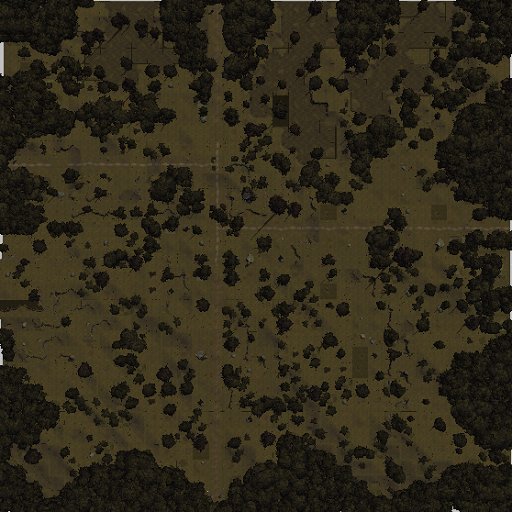
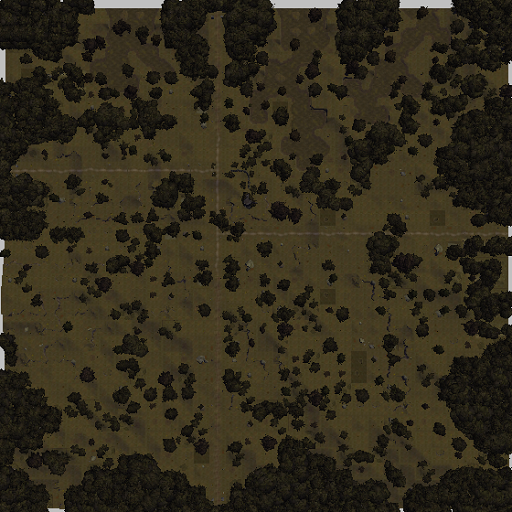
v220314

diff --git a/common.js b/common.js
@@ -14,23 +14,23 @@ var map = {
     csize_noscr: 100,
     layers: [[
         //1              2                3                4                5                6                  7                 8                  9                  10                 11                 12                 13                 14                 15                 16                 17                 18                 19                 20                21                22                     23                 24                 25                 26              27                  28              29              30
-        '0map',          '0map',          '0map',          '0map',          '0map',          '0map',            '0map',           '0map',            '0map',            '0map',            '0map',            '0map',            '0map',            '0map',            '0map',            '0map',            '0map',            '0map',            '0map',            '0map',           '0map',           '0map',                '0map',            '0map',            '0map',            '0map',         '0map',             '0map',         '0map',         '0map',       
-        '0map',          '0map',          '0map',          '0map',          '0map',          '0map',            '0map',           '0map',            '0map',            '0map',            '0map',            '0map',            '0map',            '0map',            '0map',            '0map',            '0map',            '0map',            '0map',            '0map',           '0map',           '0map',                't_varyth_torf_w', 't_varyth_tor',    't_varyth_torf_e', '0map',         '0map',             '0map',         '0map',         '0map',       
-        't_zazesspur_nw','t_zazesspur_ne','0map',          '0map',          '0map',          '0map',            '0map',           '0map',            '0map',            '0map',            '0map',            '0map',            '0map',            '0map',            '0map',            '0map',            '0map',            '0map',            't_lhestyn_quay',  't_masamont_road','t_masamount',    't_masamount_wudn',    't_varyth_torf_sw','t_varyth_torf_s', 't_varyth_torf_se','0map',         '0map',             '0map',         '0map',         '0map',       
-        't_zazesspur_sw','t_zazesspur_se','t_venezir_ne'  ,'SulZaz2',       '0map',          '0map',            't_tethyrcast_nw','t_tethyrcast_n',  't_tethyrcast_ne', 'SuldusBard1',     '0map',            'IthmonSulW',      't_hostim_quay',   't_ithmn_sul_e',   't_ithmn_sul_e1',  't_ithmn_sul_e2',  't_grannox',       't_grannox_farms', 't_lhestynheart',  't_freelm_farms', 't_freelmanse',   't_masamount_wuds',    't_varyth_plain_w','t_varyth_plain_c','t_varyth_plain_e','0IthalRoadWE', '0IthalRoadWES',    '0IthalRoadWE', '0IthalRoadWS', '0map',       
-        't_venezir_sw',  't_venezir_s',   't_venezir_se'  ,'SulZaz3',       'SulZaz4',       'SulZaz5',         't_tethyrcast_w', 't_tethyrcast',    't_tethyrcast_e',  't_alemwood_nw',   't_alemwood_ne',   't_hostim_hill_nw','t_hostim',        't_hostim_wood',   't_ithmon_crag_nw','t_ithmon_crag_ne','t_lhest_gorge',   't_lhest_farm_sw', 't_lhest_farm_s',  't_lhest_farm_se','t_rivshrehill_n','t_rivshrehill_ne',    't_varyth_hill_nw','t_varyth_hill_n', 't_varyth_hill_ne','0map',         't_iltarghal',      '0map',         't_survale',    '0map',       
-        '0map',          '0map',          't_vintor_okr_1','t_vintor_okr_2','t_vintor_okr_3','t_bardshyr_okr',  't_tethyrcast_sw','t_tethyrcast_s',  't_tethyrcast_se', 't_alemwood_sw',   't_bardshyr_alem', 't_hostim_hill_w', 't_hostim_road',   't_hostim_hill_e', 't_ithmon_crag_sw','t_ithmon_crag_se','t_qonsir',        't_qonsir_farm',   't_lhest_road',    't_rivshrehill_w','t_rivshrehill_c','t_st_ostus',          't_varyth_hill_sw','t_varyth_hill_s', 't_varyth_hill_se','0map',         '0map',             '0map',         '0IthalRoadNS', '0map',       
-        '0map',          '0map',          '0map',          '0map',          '0map',          't_sahark_crossrd','t_saharkhan',    't_bardshy_itr_1', 't_bardshy_itr_2', 't_bardshy_itr_3', 't_bardshy_itr_4', 't_ithmon_ithr_w1','t_ithmon_ithr_w2','t_ithmon_lorcros','t_ithmon_ithr_e1','t_ithmon_ithr_e2','t_rvrshr_ithrdw', 't_crownfarms_nw', 't_crownfarms_n',  't_crownfarms_ne','t_rivshrehill_s','t_rivshrehill_se',    '0map',            '0map',            't_thrynnar_hold', '0IthalRoadWE', '0IthalRoadWE',     '0IthalRoadWE', '0IthalRoadNWS','0map',       
-        '0map',          '0map',          '0map',          '0map',          '0map',          't_soldieroad_1',  '0map',           '0IthalRoadNS',    '0map',            't_brinniqdell_n', '0IthalRoadNS',    't_ithmon_pipe_n', 't_ithmon_farm_nw','t_ithmon_farm_n', 't_ithmon_farm_ne','t_loransewood_n', 't_crownfarms_iw2','t_crownfarms_iw1','t_darromar',      't_foyen_rd',     't_foyen',        '0map',                '0map',            '0map',            '0IthalRoadNS',    '0map',         '0map',             '0map',         '0IthalRoadEN', 't_veaddakar',       
-        '0map',          '0map',          '0map',          't_dasaajk',     '0map',          't_soldieroad_2',  '0map',           '0IthalRoadNS',    '0map',            't_brinniqdell_s', '0IthalRoadWN',    't_ithmon_pipe_s', 't_ithmon_farm_w', 't_ithmon_loranse','t_ithmon_farm_e', 't_loransewood_s', '0map',            't_clov_fld_nw',   't_clov_fld_itr_n','0map',           '0map',           '0map',                '0IthalRoadES',    '0IthalRoadWE',    '0IthalRoadWN',    '0map',         '0map',             '0map',         '0map',         '0map',       
-        '0map',          't_vineshade',   '0map',          '0map',          '0map',          't_krennasar',     '0IthalRoadWE',   '0IthalRoadNWE',   't_jongrath',      '0IthalRoadWN',    '0map',            't_loranse_swamp', '0map',            '0map',            '0map',            '0map',            't_ruba',          '0IthalRoadWE',    't_clov_fld_itr_s','0IthalRoadWES',  '0IthalRoadWE',   '0IthalRoadWE',        '0IthalRoadNWS',   '0map',            '0map',            '0map',         '0map',             '0map',         '0map',         '0map',       
-        '0map',          '0map',          '0map',          '0map',          '0IthalRoadES',  '0IthalRoadWN',    '0map',           '0map',            '0map',            '0map',            '0map',            '0map',            '0map',            '0map',            '0map',            '0map',            '0IthalRoadNS',    '0map',            '0map',            't_abbor',        '0map',           '0map',                '0IthalRoadNES',   '0IthalRoadWE',    '0IthalRoadWE',    '0IthalRoadWE', '0IthalRoadWS',     '0map',         '0map',         '0map',       
-        '0map',          '0map',          '0map',          't_refields_n',  't_refields_ne', '0map',            '0map',           '0map',            '0map',            '0map',            '0map',            '0map',            '0map',            '0map',            't_pelmarin',      '0IthalRoadWE',    '0IthalRoadWN',    '0map',            '0map',            '0map',           '0map',           '0map',                't_mistletoe',     '0map',            '0map',            '0map',         '0IthalRoadNES',    '0IthalRoadWE', '0IthalRoadWES','t_barakmordin',       
-        '0map',          '0map',          't_myratma_w',   't_myratma_e',   't_refields_e',  '0IthalRoadWE',    '0IthalRoadWE',   't_maratimmir',    '0IthalRoadWE',    '0IthalRoadWE',    '0IthalRoadWE',    '0IthalRoadWES',   '0IthalRoadWE',    '0IthalRoadWE',    '0IthalRoadWN',    '0map',            '0map',            '0map',            '0map',            '0map',           '0map',           '0map',                '0map',            '0map',            '0map',            '0map',         '0IthalRoadNS',     '0map',         '0IthalRoadNS', '0map',       
-        '0map',          '0map',          '0map',          '0map',          '0map',          '0map',            '0map',           '0map',            '0map',            '0map',            '0map',            't_fort_teqlar',   't_shoonach_ilt',  't_shoonach_run',  '0map',            '0map',            '0map',            '0map',            '0map',            '0map',           '0map',           '0map',                '0map',            '0map',            '0map',            't_magis_tor',  '0IthalRoadWN',     '0map',         '0IthalRoadNS', '0map',       
-        '0map',          '0map',          '0map',          '0map',          '0map',          '0map',            '0map',           '0map',            '0map',            '0map',            't_shoonach_gaw',  '0map',            '0map',            '0map',            't_shoonach_deb',  '0map',            '0map',            '0map',            '0map',            '0map',           '0map',           '0map',                '0map',            '0map',            '0map',            '0map',         '0map',             '0map',         't_adarthir',   '0map',
-        '0map',          '0map',          '0map',          '0map',          '0map',          '0map',            '0map',           '0map',            '0map',            '0map',            '0map',            't_shoonach_mum',  't_shoonach_imp',  '0map',            't_shoonach_gae',  '0map',            '0map',            '0map',            '0map',            '0map',           '0map',           '0map',                '0map',            '0map',            '0map',            '0map',         '0map',             '0map',         '0map',         '0map',
-        '0map',          '0map',          '0map',          '0map',          '0map',          '0map',            '0map',           '0map',            '0map',            '0map',            '0map',            '0map',            't_shoonach_agi',  '0map',            '0map',            '0map',            '0map',            '0map',            '0map',            '0map',           '0map',           '0map',                '0map',            '0map',            '0map',            '0map',         '0map',             '0map',         '0map',         '0map'                        
+        '0map',          '0map',          '0map',          '0map',          '0map',          '0map',            '0map',            '0map',            '0map',            '0map',            '0map',            '0map',            '0map',            '0map',            '0map',            '0map',            '0map',            '0map',            '0map',            '0map',           '0map',           '0map',                '0map',            '0map',            '0map',            '0map',         '0map',             '0map',         '0map',         '0map',       
+        '0map',          '0map',          '0map',          '0map',          '0map',          '0map',            '0map',            '0map',            '0map',            '0map',            '0map',            '0map',            '0map',            '0map',            '0map',            '0map',            '0map',            '0map',            '0map',            '0map',           '0map',           '0map',                't_varyth_torf_w', 't_varyth_tor',    't_varyth_torf_e', '0map',         '0map',             '0map',         '0map',         '0map',       
+        't_zazesspur_nw','t_zazesspur_ne','0map',          '0map',          '0map',          '0map',            '0map',            '0map',            '0map',            '0map',            '0map',            '0map',            '0map',            '0map',            '0map',            '0map',            '0map',            '0map',            't_lhestyn_quay',  't_masamont_road','t_masamount',    't_masamount_wudn',    't_varyth_torf_sw','t_varyth_torf_s', 't_varyth_torf_se','0map',         '0map',             '0map',         '0map',         '0map',       
+        't_zazesspur_sw','t_zazesspur_se','t_venezir_ne'  ,'SulZaz2',       '0map',          '0map',            't_tethyrcast_nw', 't_tethyrcast_n',  't_tethyrcast_ne', 'SuldusBard1',     '0map',            'IthmonSulW',      't_hostim_quay',   't_ithmn_sul_e',   't_ithmn_sul_e1',  't_ithmn_sul_e2',  't_grannox',       't_grannox_farms', 't_lhestynheart',  't_freelm_farms', 't_freelmanse',   't_masamount_wuds',    't_varyth_plain_w','t_varyth_plain_c','t_varyth_plain_e','0IthalRoadWE', '0IthalRoadWES',    '0IthalRoadWE', '0IthalRoadWS', '0map',       
+        't_venezir_sw',  't_venezir_s',   't_venezir_se'  ,'SulZaz3',       'SulZaz4',       'SulZaz5',         't_tethyrcast_w',  't_tethyrcast',    't_tethyrcast_e',  't_alemwood_nw',   't_alemwood_ne',   't_hostim_hill_nw','t_hostim',        't_hostim_wood',   't_ithmon_crag_nw','t_ithmon_crag_ne','t_lhest_gorge',   't_lhest_farm_sw', 't_lhest_farm_s',  't_lhest_farm_se','t_rivshrehill_n','t_rivshrehill_ne',    't_varyth_hill_nw','t_varyth_hill_n', 't_varyth_hill_ne','0map',         't_iltarghal',      '0map',         't_survale',    '0map',       
+        '0map',          '0map',          't_vintor_okr_1','t_vintor_okr_2','t_vintor_okr_3','t_bardshyr_okr',  't_tethyrcast_sw', 't_tethyrcast_s',  't_tethyrcast_se', 't_alemwood_sw',   't_bardshyr_alem', 't_hostim_hill_w', 't_hostim_road',   't_hostim_hill_e', 't_ithmon_crag_sw','t_ithmon_crag_se','t_qonsir',        't_qonsir_farm',   't_lhest_road',    't_rivshrehill_w','t_rivshrehill_c','t_st_ostus',          't_varyth_hill_sw','t_varyth_hill_s', 't_varyth_hill_se','0map',         '0map',             '0map',         '0IthalRoadNS', '0map',       
+        '0map',          '0map',          '0map',          '0map',          '0map',          't_sahark_crossrd','t_saharkhan',     't_bardshy_itr_1', 't_bardshy_itr_2', 't_bardshy_itr_3', 't_bardshy_itr_4', 't_ithmon_ithr_w1','t_ithmon_ithr_w2','t_ithmon_lorcros','t_ithmon_ithr_e1','t_ithmon_ithr_e2','t_rvrshr_ithrdw', 't_crownfarms_nw', 't_crownfarms_n',  't_crownfarms_ne','t_rivshrehill_s','t_rivshrehill_se',    '0map',            '0map',            't_thrynnar_hold', '0IthalRoadWE', '0IthalRoadWE',     '0IthalRoadWE', '0IthalRoadNWS','0map',       
+        '0map',          '0map',          '0map',          '0map',          '0map',          't_soldieroad_1',  't_saharkhan_sp',  't_sevenstar_rd',  '0map',            't_brinniqdell_n', '0IthalRoadNS',    't_ithmon_pipe_n', 't_ithmon_farm_nw','t_ithmon_farm_n', 't_ithmon_farm_ne','t_loransewood_n', 't_crownfarms_iw2','t_crownfarms_iw1','t_darromar',      't_foyen_rd',     't_foyen',        '0map',                '0map',            '0map',            '0IthalRoadNS',    '0map',         '0map',             '0map',         '0IthalRoadEN', 't_veaddakar',       
+        '0map',          '0map',          '0map',          't_dasaajk',     '0map',          't_soldieroad_2',  '0map',            't_sevenstar',     '0map',            't_brinniqdell_s', '0IthalRoadWN',    't_ithmon_pipe_s', 't_ithmon_farm_w', 't_ithmon_loranse','t_ithmon_farm_e', 't_loransewood_s', '0map',            't_clov_fld_nw',   't_clov_fld_itr_n','0map',           '0map',           '0map',                '0IthalRoadES',    '0IthalRoadWE',    '0IthalRoadWN',    '0map',         '0map',             '0map',         '0map',         '0map',       
+        '0map',          't_vineshade',   '0map',          '0map',          '0map',          't_krennasar',     't_jongrathroad01','t_jongrathroad02','t_jongrath',      't_jongrathroad03','0map',            't_loranse_swamp', '0map',            '0map',            '0map',            '0map',            't_ruba',          '0IthalRoadWE',    't_clov_fld_itr_s','0IthalRoadWES',  '0IthalRoadWE',   '0IthalRoadWE',        '0IthalRoadNWS',   '0map',            '0map',            '0map',         '0map',             '0map',         '0map',         '0map',       
+        '0map',          '0map',          '0map',          '0map',          '0IthalRoadES',  '0IthalRoadWN',    '0map',            '0map',            '0map',            '0map',            '0map',            '0map',            '0map',            '0map',            '0map',            '0map',            '0IthalRoadNS',    '0map',            '0map',            't_abbor',        '0map',           '0map',                '0IthalRoadNES',   '0IthalRoadWE',    '0IthalRoadWE',    '0IthalRoadWE', '0IthalRoadWS',     '0map',         '0map',         '0map',       
+        '0map',          '0map',          '0map',          't_refields_n',  't_refields_ne', '0map',            '0map',            '0map',            '0map',            '0map',            '0map',            '0map',            '0map',            '0map',            't_pelmarin',      '0IthalRoadWE',    '0IthalRoadWN',    '0map',            '0map',            '0map',           '0map',           '0map',                't_mistletoe',     '0map',            '0map',            '0map',         '0IthalRoadNES',    '0IthalRoadWE', '0IthalRoadWES','t_barakmordin',       
+        '0map',          '0map',          't_myratma_w',   't_myratma_e',   't_refields_e',  '0IthalRoadWE',    '0IthalRoadWE',    't_maratimmir',    '0IthalRoadWE',    '0IthalRoadWE',    '0IthalRoadWE',    '0IthalRoadWES',   '0IthalRoadWE',    '0IthalRoadWE',    '0IthalRoadWN',    '0map',            '0map',            '0map',            '0map',            '0map',           '0map',           '0map',                '0map',            '0map',            '0map',            '0map',         '0IthalRoadNS',     '0map',         '0IthalRoadNS', '0map',       
+        '0map',          '0map',          '0map',          '0map',          '0map',          '0map',            '0map',            '0map',            '0map',            '0map',            '0map',            't_fort_teqlar',   't_shoonach_ilt',  't_shoonach_run',  '0map',            '0map',            '0map',            '0map',            '0map',            '0map',           '0map',           '0map',                '0map',            '0map',            '0map',            't_magis_tor',  '0IthalRoadWN',     '0map',         '0IthalRoadNS', '0map',       
+        '0map',          '0map',          '0map',          '0map',          '0map',          '0map',            '0map',            '0map',            '0map',            '0map',            't_shoonach_gaw',  '0map',            '0map',            '0map',            't_shoonach_deb',  '0map',            '0map',            '0map',            '0map',            '0map',           '0map',           '0map',                '0map',            '0map',            '0map',            '0map',         '0map',             '0map',         't_adarthir',   '0map',
+        '0map',          '0map',          '0map',          '0map',          '0map',          '0map',            '0map',            '0map',            '0map',            '0map',            '0map',            't_shoonach_mum',  't_shoonach_imp',  '0map',            't_shoonach_gae',  '0map',            '0map',            '0map',            '0map',            '0map',           '0map',           '0map',                '0map',            '0map',            '0map',            '0map',         '0map',             '0map',         '0map',         '0map',
+        '0map',          '0map',          '0map',          '0map',          '0map',          '0map',            '0map',            '0map',            '0map',            '0map',            '0map',            '0map',            't_shoonach_agi',  '0map',            '0map',            '0map',            '0map',            '0map',            '0map',            '0map',           '0map',           '0map',                '0map',            '0map',            '0map',            '0map',         '0map',             '0map',         '0map',         '0map'                        
     ], [
       //                  10                  20                  30
       //1 2 3 4 5 6 7 8 9   1 2 3 4 5 6 7 8 9   1 2 3 4 5 6 7 8 9
